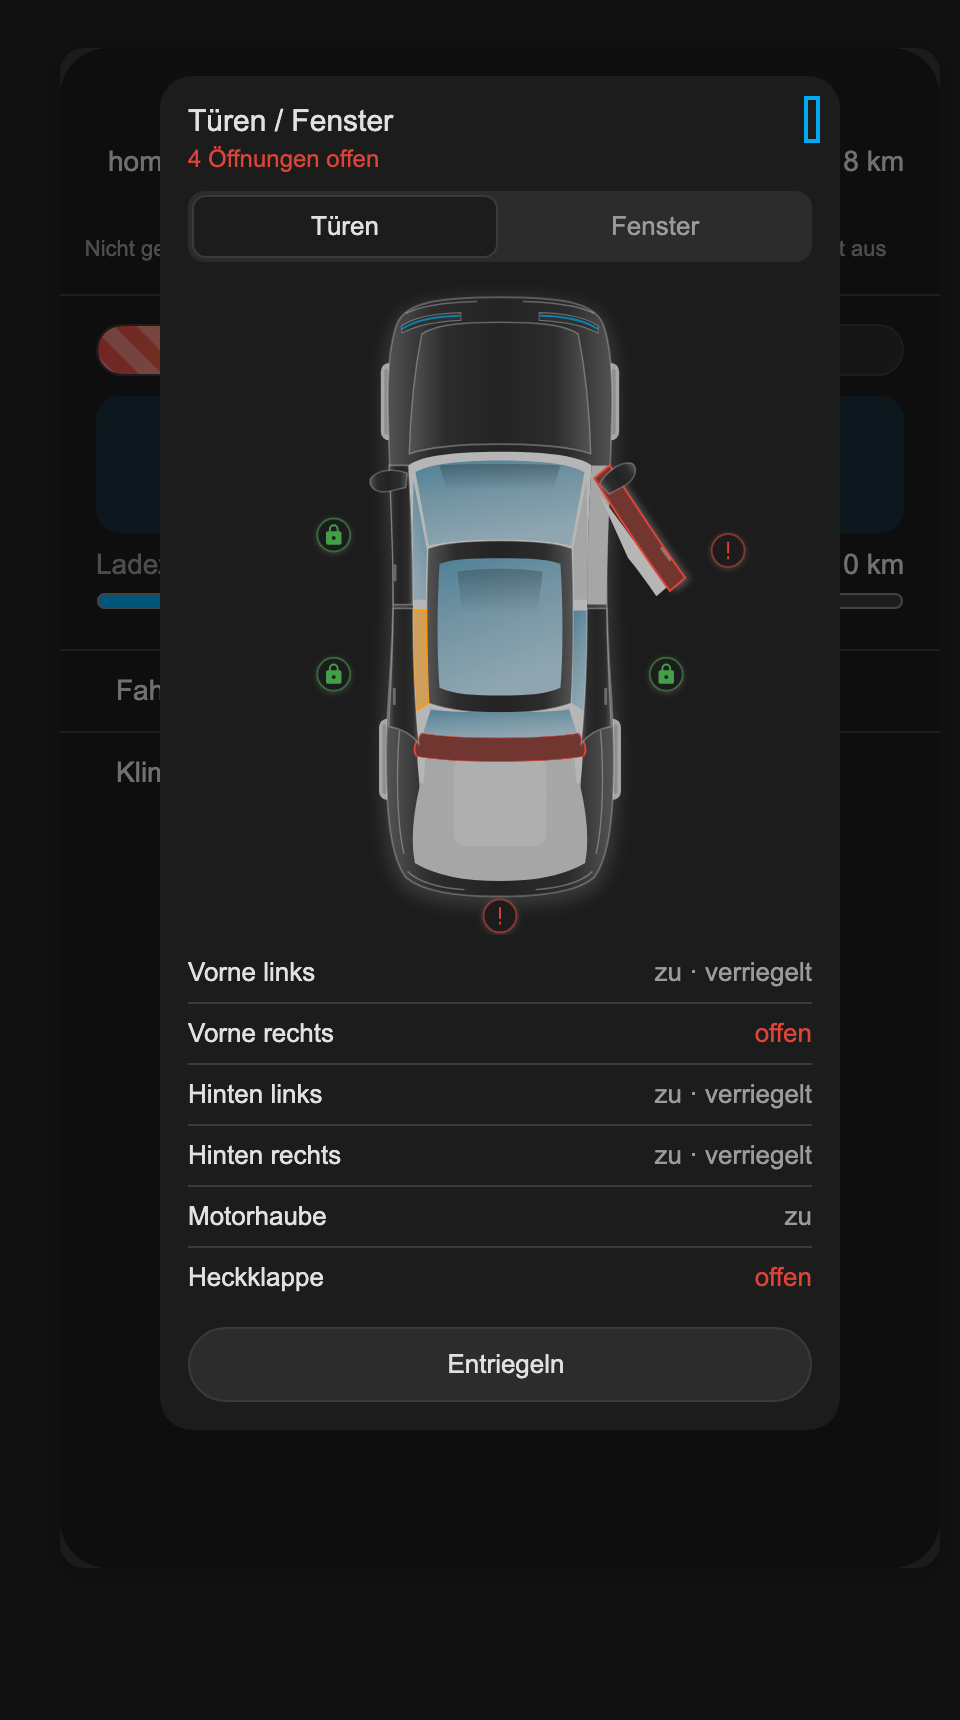
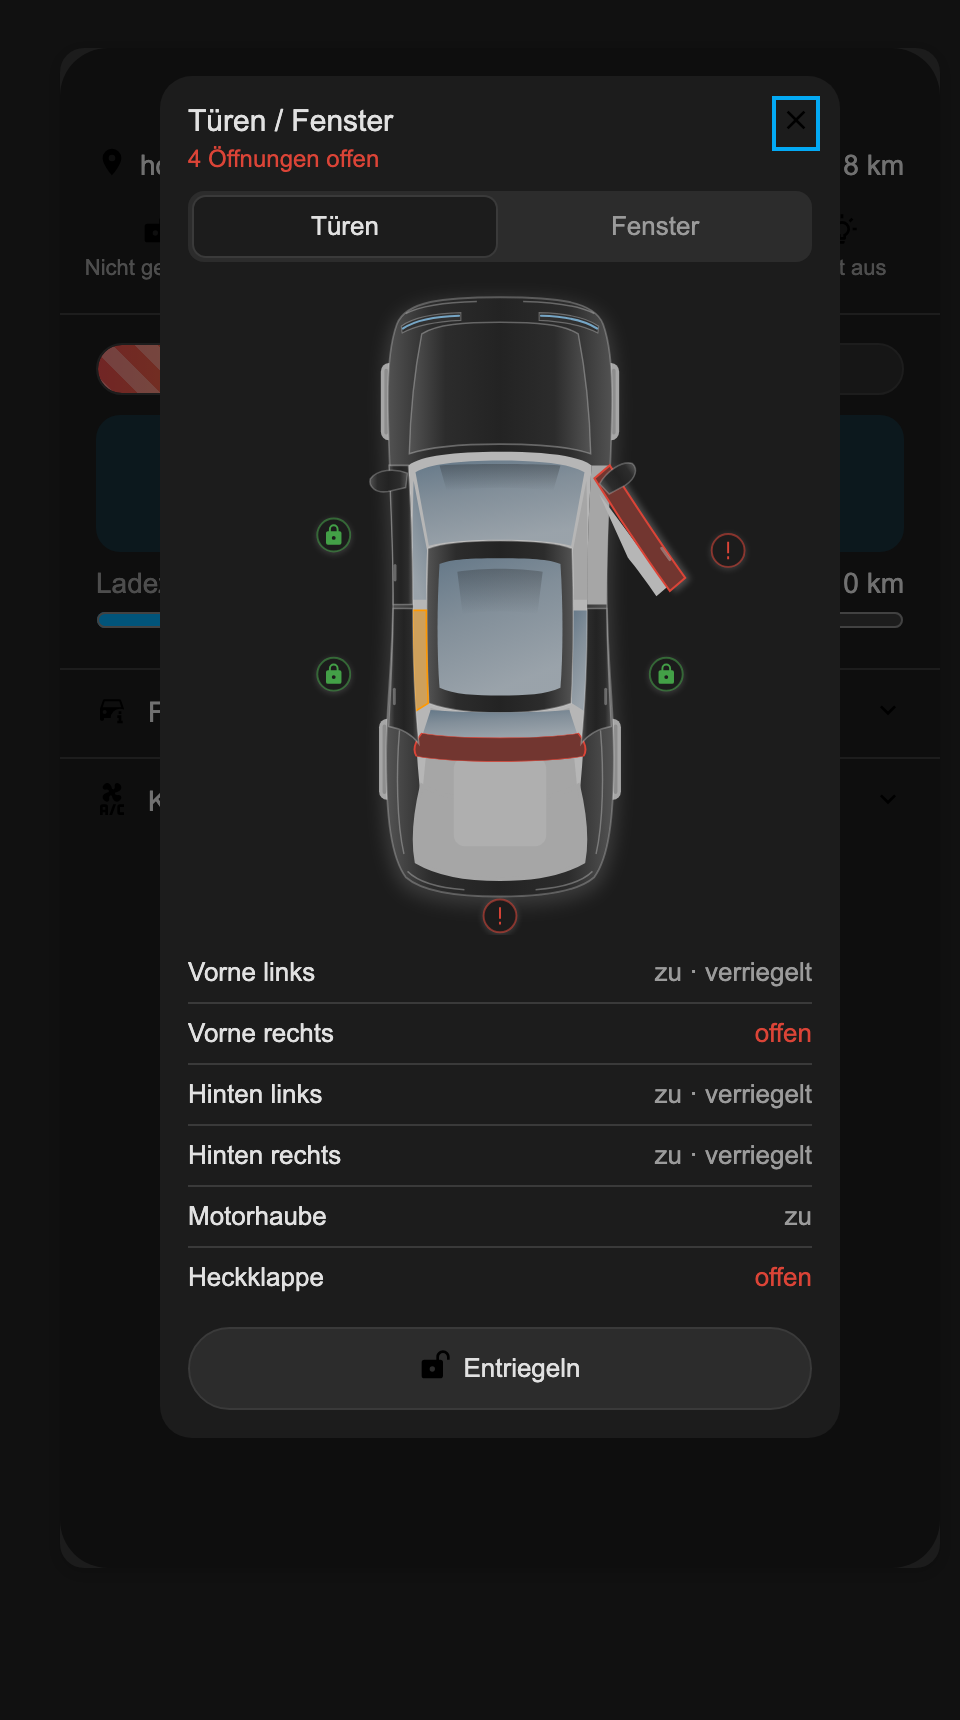
fix: glass and daytime running lights keep their colour whatever the theme's primary colour is

diff --git a/custom_components/audiconnect/www/audi-connect-card.js b/custom_components/audiconnect/www/audi-connect-card.js
@@ -191,12 +191,12 @@ select{background:var(--secondary-background-color);color:var(--primary-text-col
 --c-trim:color-mix(in srgb,var(--primary-text-color) 78%,var(--card-background-color));
 --c-cavity:color-mix(in srgb,var(--primary-text-color) 70%,var(--card-background-color));
 --c-engine:color-mix(in srgb,var(--primary-text-color) 16%,var(--c-cavity));
---c-gl-a:color-mix(in srgb,var(--primary-color) 30%,color-mix(in srgb,var(--primary-text-color) 42%,var(--card-background-color)));
---c-gl-b:color-mix(in srgb,var(--primary-color) 20%,color-mix(in srgb,var(--primary-text-color) 58%,var(--card-background-color)));
---c-gl-c:color-mix(in srgb,var(--primary-color) 14%,color-mix(in srgb,var(--primary-text-color) 70%,var(--card-background-color)));
+--c-gl-a:color-mix(in srgb,#4f8fc4 30%,color-mix(in srgb,var(--primary-text-color) 42%,var(--card-background-color)));
+--c-gl-b:color-mix(in srgb,#4f8fc4 20%,color-mix(in srgb,var(--primary-text-color) 58%,var(--card-background-color)));
+--c-gl-c:color-mix(in srgb,#4f8fc4 14%,color-mix(in srgb,var(--primary-text-color) 70%,var(--card-background-color)));
 --c-tail:color-mix(in srgb,var(--error-color) 55%,var(--secondary-background-color));
 --c-head:color-mix(in srgb,var(--primary-text-color) 10%,var(--card-background-color));
---c-drl:color-mix(in srgb,var(--primary-color) 70%,var(--card-background-color));
+--c-drl:color-mix(in srgb,#8cc8f0 80%,var(--card-background-color));
 --c-ul:color-mix(in srgb,var(--warning-color) 14%,var(--secondary-background-color));
 --c-open:color-mix(in srgb,var(--error-color) 40%,var(--secondary-background-color));
 --c-win:color-mix(in srgb,var(--warning-color) 45%,var(--c-cavity))}
@@ -217,7 +217,7 @@ select{background:var(--secondary-background-color);color:var(--primary-text-col
 @supports not (color:color-mix(in srgb,red,blue)){
 .band,.cstatus,.pill.on,.stp:active,.pill:active,.note.bad{background:var(--secondary-background-color)}
 .cell+.cell{border-left-color:var(--divider-color)}
-.car{--c-edge:var(--divider-color);--c-mid:var(--card-background-color);--c-line:var(--divider-color);--c-bodyline:var(--divider-color);--c-trim:var(--secondary-text-color);--c-cavity:var(--secondary-text-color);--c-engine:var(--secondary-text-color);--c-gl-a:var(--secondary-text-color);--c-gl-b:var(--secondary-text-color);--c-gl-c:var(--secondary-text-color);--c-tail:var(--error-color);--c-head:var(--secondary-background-color);--c-drl:var(--primary-color);--c-ul:var(--secondary-background-color);--c-open:var(--secondary-background-color);--c-win:var(--secondary-background-color)}
+.car{--c-edge:var(--divider-color);--c-mid:var(--card-background-color);--c-line:var(--divider-color);--c-bodyline:var(--divider-color);--c-trim:var(--secondary-text-color);--c-cavity:var(--secondary-text-color);--c-engine:var(--secondary-text-color);--c-gl-a:var(--secondary-text-color);--c-gl-b:var(--secondary-text-color);--c-gl-c:var(--secondary-text-color);--c-tail:var(--error-color);--c-head:var(--secondary-background-color);--c-drl:#8cc8f0;--c-ul:var(--secondary-background-color);--c-open:var(--secondary-background-color);--c-win:var(--secondary-background-color)}
 }
 @media (prefers-reduced-motion:reduce){.bar.charging::before,.pulse,.cstatus ha-icon,.pill.wait ha-icon{animation:none}}
 `;
